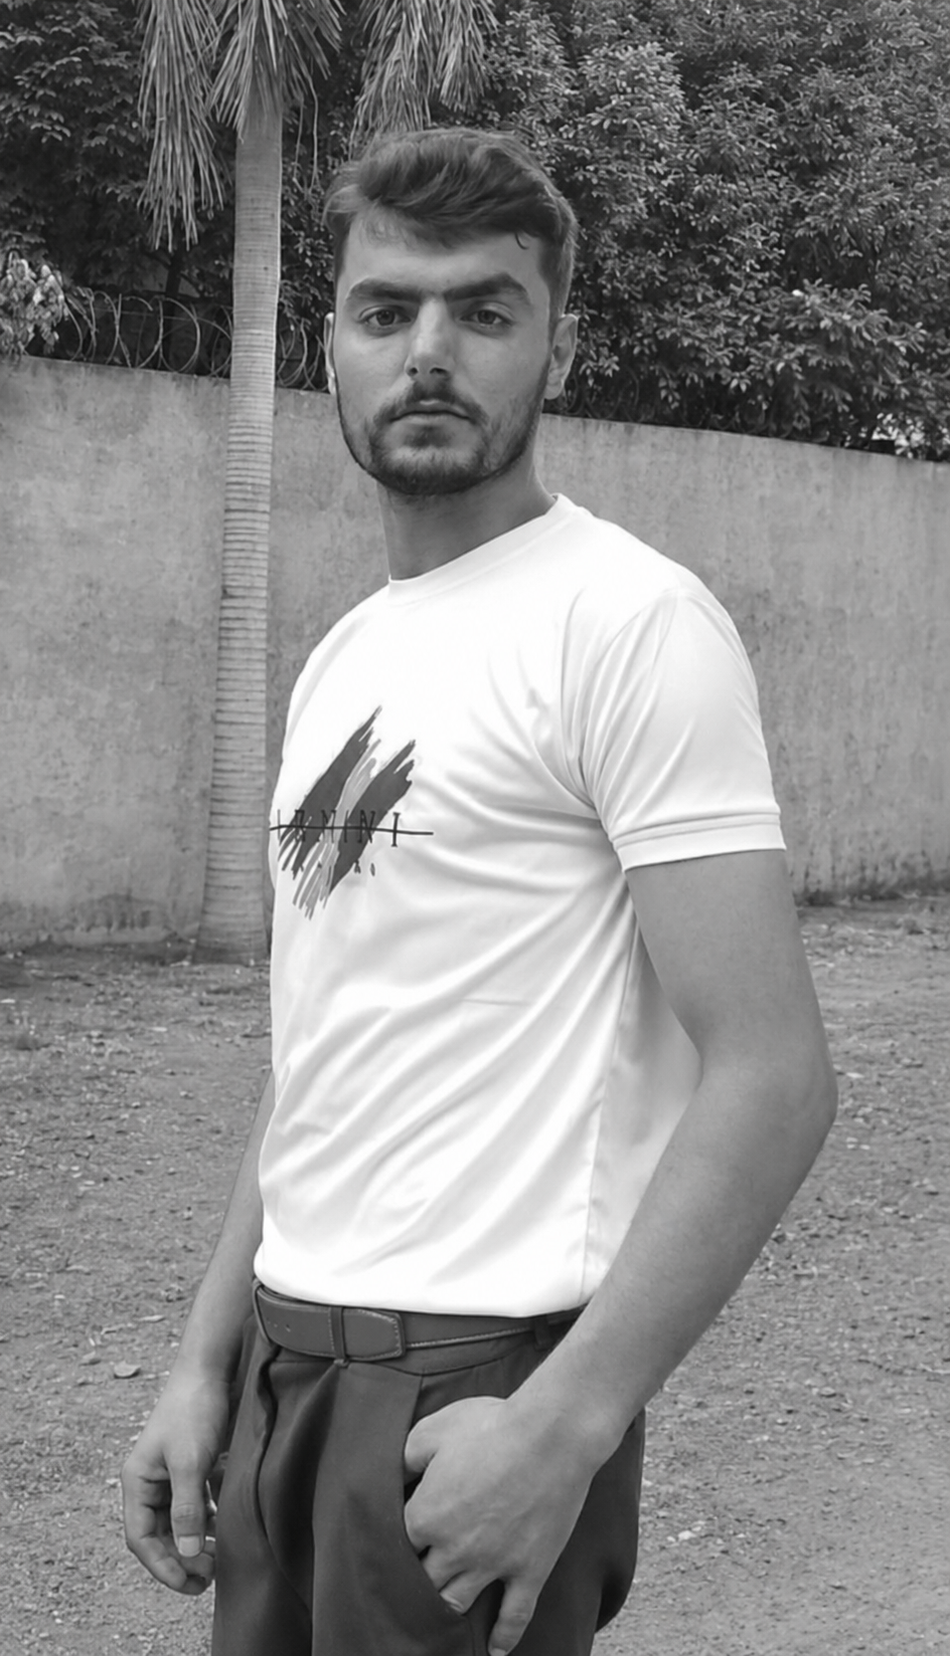
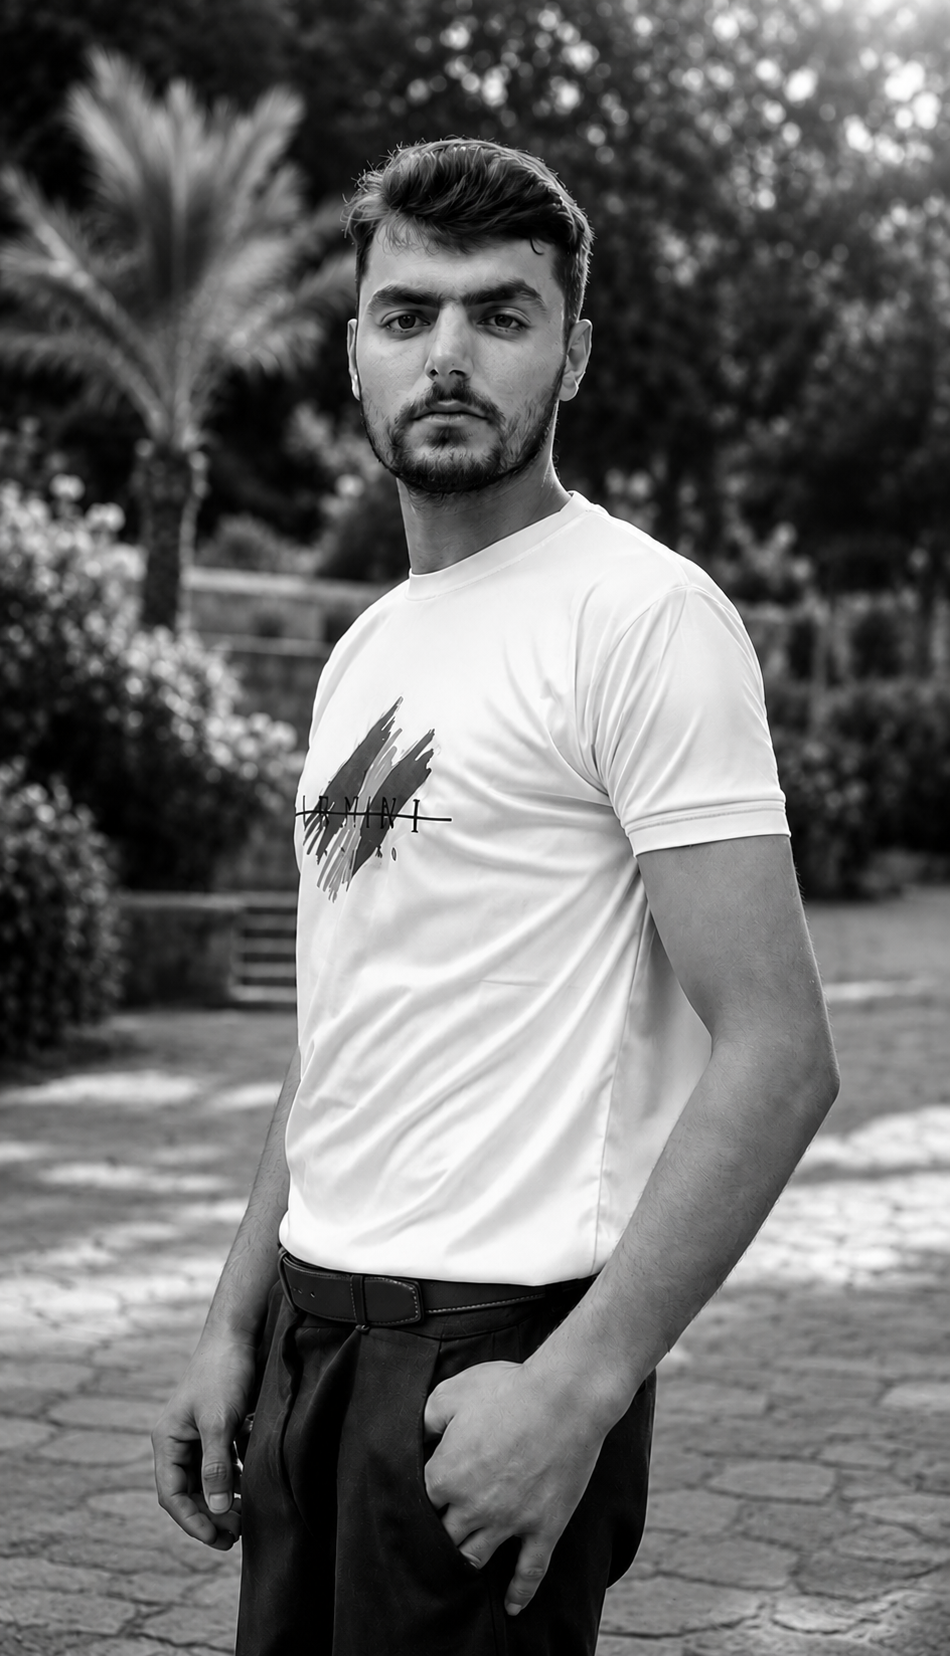
People: swap Muhammad Ilyas and Qammar Abbas in team order, update the pic alo

diff --git a/src/routes/people.tsx b/src/routes/people.tsx
@@ -17,7 +17,7 @@ export const Route = createFileRoute("/people")({
 const team = [
   { role: "Principal Architect", name: "Ar. Hammad Hussain", photo: "/team/hammad.jpeg" },
   { role: "Senior Architect", name: "Ar. Syed Faraz Ali", photo: "/team/faraz.png" },
-  { role: "Junior Architect", name: "Ar. Munazah Babar", photo: "/team/munazah.jpeg" },
+  { role: "Junior Architect", name: "Ar. Munazza Baber", photo: "/team/munazah.jpeg" },
   { role: "Junior Architect", name: "Ar. Zeeshan Haider", photo: "/team/zeeshan-haider.jpeg" },
   { role: "Junior Architect", name: "Ar. Sayed Yadullah", photo: "/team/yadullah.png" },
   { role: "Media Director", name: "Qammar Abbas", photo: "/team/qammar.jpg" },